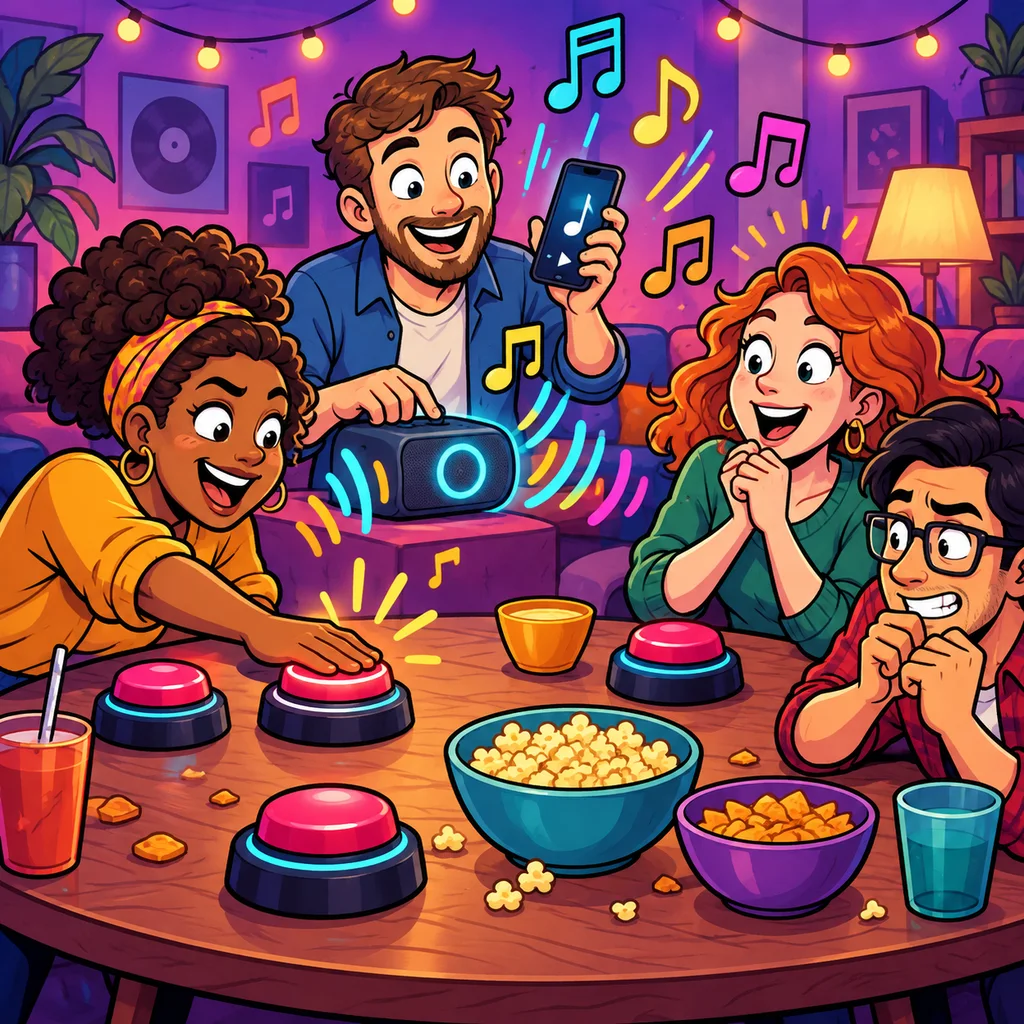
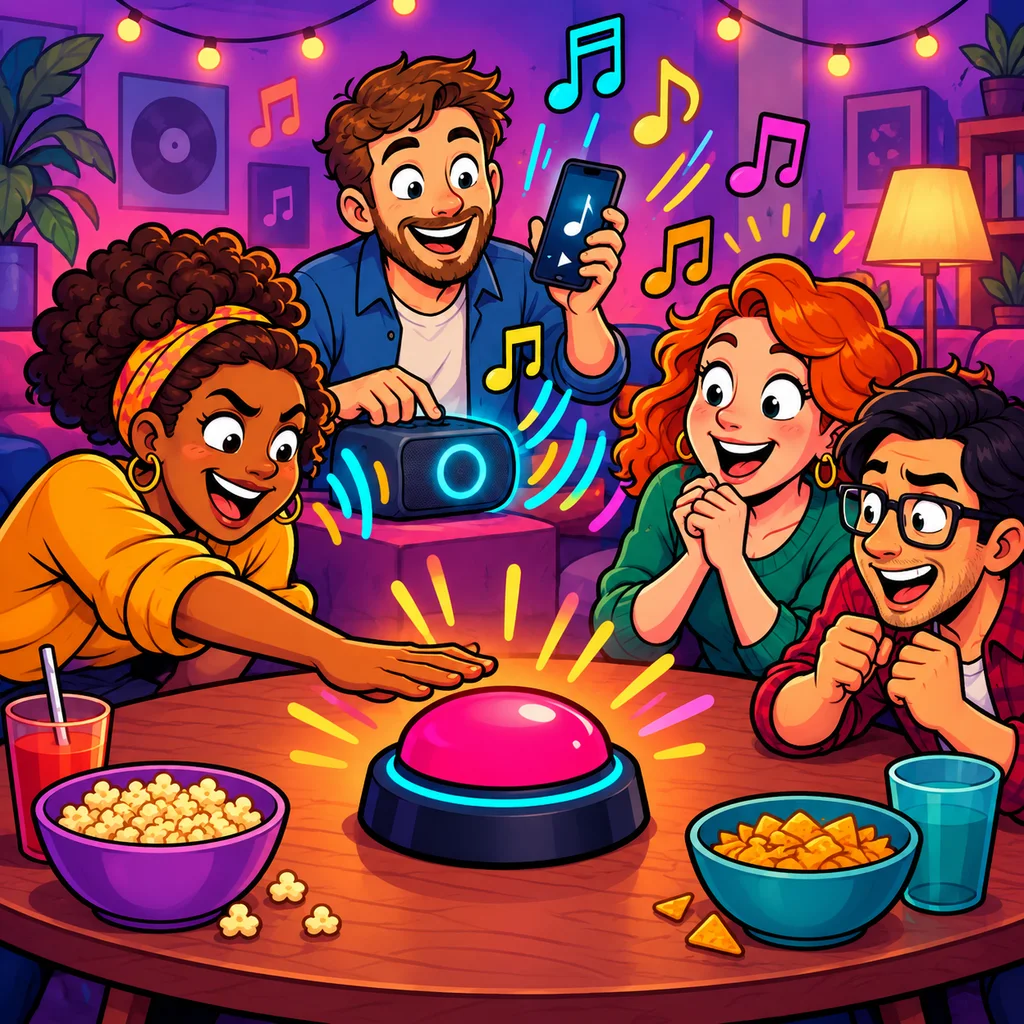
Show one central buzzer on Hit-Buzzer cover

diff --git a/src/pages/AdminGames.tsx b/src/pages/AdminGames.tsx
@@ -398,7 +398,7 @@ export default function AdminGames() {
       </div>
 
       <section aria-labelledby="hit-buzzer-admin-title" className="mx-4 mt-4 flex flex-col gap-4 rounded-[28px] border border-white/[0.08] bg-[#16101f] p-4 shadow-[inset_0_1px_0_rgba(255,255,255,0.08)] sm:mx-6 sm:flex-row sm:items-center">
-        <img src="/images/games/hit-buzzer.webp" alt="Freunde buzzern bei einem Musikquiz" className="h-28 w-28 rounded-[20px] object-cover sm:h-24 sm:w-24" />
+        <img src="/images/games/hit-buzzer.webp" alt="Vier Freunde greifen nach dem Buzzer in der Tischmitte" className="h-28 w-28 rounded-[20px] object-cover sm:h-24 sm:w-24" />
         <div className="min-w-0 flex-1">
           <div className="flex flex-wrap items-center gap-2">
             <h2 id="hit-buzzer-admin-title" className="font-game text-lg font-black text-white">Hit-Buzzer</h2>

diff --git a/docs/hit-buzzer-game-design.md b/docs/hit-buzzer-game-design.md
@@ -111,7 +111,7 @@ Hit-Buzzer ist visuell Teil von EventBliss Party Play. Die verbindliche Grundlag
 | Spieleridentität | Zimmer-/Lobby-Farbe folgt dem Spieler via `playerGlow`; auf Text und Status zusätzlich Name, Avatar, Form und Icon |
 | Bild | Eigenständige gezeichnete Gruppenszene im Stil der vorhandenen Ohrwurm-, Pixeljagd- und GEBRÄU-Cover; kein fotorealistischer Neon-Buzzer |
 
-**Cover:** Vier Freunde an einem Tisch, jeder mit eigenem Buzzer, Musikquelle beim Host, ein Mensch drückt zuerst. Handgezeichnete Konturen, ausdrucksstarke Figuren, violette EventBliss-Bühne und sparsame Pink-/Türkis-Akzente. Die App setzt „Hit-Buzzer“ als echten UI-Text über oder neben das Bild; im Bild selbst stehen keine Buchstaben. Datei: `public/images/games/hit-buzzer.webp`.
+**Cover:** Vier Freunde an einem Tisch und genau **ein** großer physischer Buzzer in der Tischmitte als gemeinsamer Blickfang. Ein Mensch greift zuerst danach; die Musikquelle steht beim Host. Handgezeichnete Konturen, ausdrucksstarke Figuren, violette EventBliss-Bühne und sparsame Pink-/Türkis-Akzente. Die Illustration zeigt das Spielgefühl; im Joystick-Modus erhält weiterhin jede Person ihren eigenen digitalen Buzzer auf dem jeweiligen Handy. Die App setzt „Hit-Buzzer“ als echten UI-Text über oder neben das Bild; im Bild selbst stehen keine Buchstaben. Datei: `public/images/games/hit-buzzer.webp`.
 
 ### 8.1 Informationshierarchie pro Bildschirm
 
@@ -152,7 +152,7 @@ Der Standardmodus bleibt bewusst leicht erklärbar. Denkbare Varianten nach eine
 
 Erzeugt mit dem integrierten Imagegen-Werkzeug; anschließend als 1024 × 1024 WebP für die App gespeichert. Verwendeter Prompt:
 
-> Edit Image 1 into a square EventBliss game cover matching the established editorial illustration style of Images 2, 3 and 4. Keep the central idea of a song-recognition buzzer contest, but replace the realistic neon-rendered stage entirely with a lively hand-drawn cartoon group scene. Four distinct adult friends gathered around one table at a party; each has their own separate large red/pink buzzer or phone buzzer in front of them, one reaches to press first, others react with anticipation, and a host controls the music from a small speaker/phone. This game is about fast song recognition, not chronology: use a few floating colorful music notes and audio-wave accents, no timeline cards, no pixelated image. Match references' bold ink outlines, expressive faces, warm playful character art, crisp cel shading, textured purple-magenta ambient lighting, cyan and coral accents, grounded tabletop composition, detailed but readable at 400px thumbnail scale. Original characters, not copies of the reference people. Keep main action in center 80 percent with room for square crop. No photorealism, no glossy 3D object, no glowing nightclub laser stage, no written words, no letters, no speech bubbles, no logos, no trademarked imagery.
+> Revise the attached square EventBliss Hit-Buzzer cover. Keep the same premium editorial cartoon look, four excited friends, bold dark outlines and EventBliss violet, magenta, cyan and yellow palette. On the table there must be EXACTLY ONE physical game buzzer in the entire picture: one big bright magenta dome on a dark base, precisely in the middle of the table, unobstructed and visually dominant. REMOVE all other buzzer domes and button-shaped objects. The players all lean toward this one central buzzer; one hand is about to press it. Keep a small speaker and phone as distinct music cues, plus restrained snacks. No letters, words, logos, numbers, UI, or additional buzzers. Thumbnail-legible square game cover.
 
 ## 9. Wiederverwendung und Implementierungsreihenfolge
 
